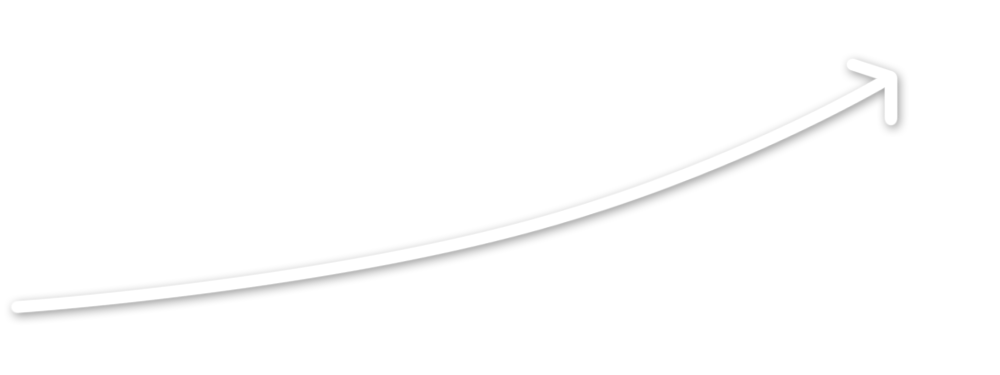
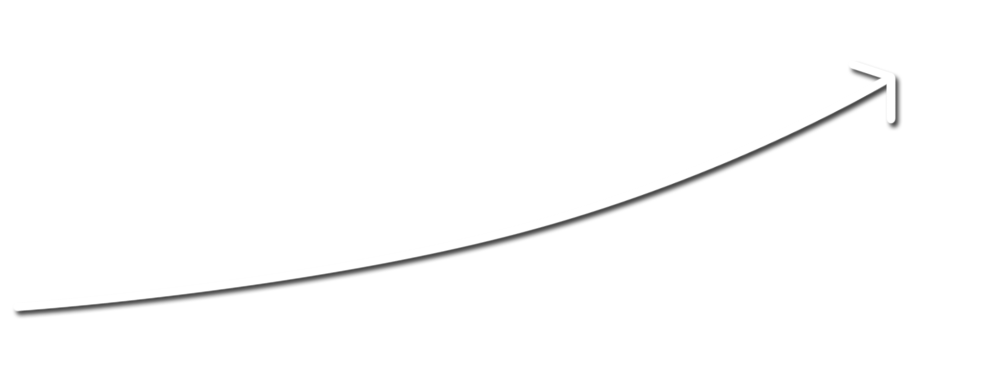
Scaled down the notebook welcome arrow

diff --git a/SproxNode/app/scss/notes.scss b/SproxNode/app/scss/notes.scss
@@ -125,8 +125,8 @@ $welcome-width: 500;
 
 #notesWelcomeArrow {
   background: url(../src/notesWelcomeArrow.png);
-  width: $welcome-height;
-  height: $welcome-width;
+  width: $welcome-width;
+  height: $welcome-height;
   background-repeat: no-repeat;
   @include vendor-prefix(background-size, contain);
   position: absolute;
@@ -138,8 +138,8 @@ $welcome-width: 500;
   color: #FFF;
   z-index: 100;
   position: absolute;
-  right: $welcome-height + 75;
-  top: $welcome-width - 10;
+  right: $welcome-width + 75;
+  top: $welcome-height - 10;
   font-size:20
 }
 

diff --git a/SproxNode/app/style/notes.css b/SproxNode/app/style/notes.css
@@ -113,8 +113,8 @@
 
 #notesWelcomeArrow {
   background: url(../src/notesWelcomeArrow.png);
-  width: 200;
-  height: 500;
+  width: 500;
+  height: 200;
   background-repeat: no-repeat;
   -webkit-background-size: contain;
   -ms-background-size: contain;
@@ -129,8 +129,8 @@
   color: #FFF;
   z-index: 100;
   position: absolute;
-  right: 275;
-  top: 490;
+  right: 575;
+  top: 190;
   font-size: 20;
 }
 
